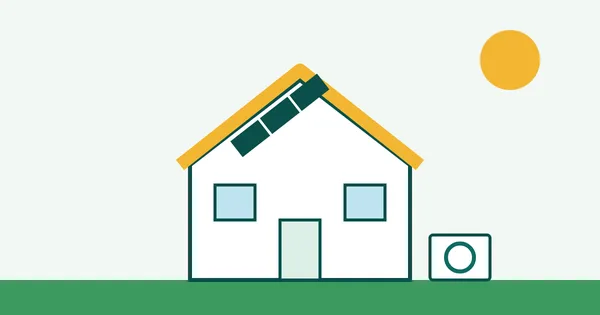
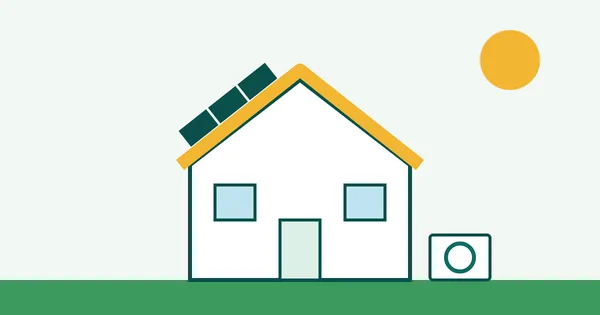
Zonnepanelen evenwijdig op dak

Changed region(s): [[0.3, 0.2, 0.57, 0.5143]]

diff --git a/scripts/images.py b/scripts/images.py
@@ -7,12 +7,12 @@ ground=f'<rect x="0" y="560" width="1200" height="70" fill="{L}"/>'
 sun=f'<circle cx="1020" cy="120" r="60" fill="{S}"/>'
 roofins=f'<path d="M360 330 600 140l240 190" fill="none" stroke="{S}" stroke-width="26" stroke-linejoin="round"/>'
 art={
-'home':sun+ground+house+roofins+f'<g transform="translate(860 470)"><rect width="120" height="90" rx="6" fill="{W}" stroke="{D}" stroke-width="6"/><circle cx="60" cy="45" r="28" fill="none" stroke="{T}" stroke-width="8"/></g><g transform="rotate(-38 600 250)"><rect x="470" y="190" width="70" height="40" fill="{D}"/><rect x="545" y="190" width="70" height="40" fill="{D}"/><rect x="620" y="190" width="70" height="40" fill="{D}"/></g>',
+'home':sun+ground+house+roofins+f'<g transform="translate(860 470)"><rect width="120" height="90" rx="6" fill="{W}" stroke="{D}" stroke-width="6"/><circle cx="60" cy="45" r="28" fill="none" stroke="{T}" stroke-width="8"/></g><g transform="translate(360 330) rotate(-38.37)"><rect x="40" y="-55" width="70" height="40" fill="{D}"/><rect x="115" y="-55" width="70" height="40" fill="{D}"/><rect x="190" y="-55" width="70" height="40" fill="{D}"/></g>',
 'spouwmuurisolatie-kosten':ground+f'<rect x="380" y="120" width="140" height="440" fill="#c86b4a"/><rect x="520" y="120" width="120" height="440" fill="{S}"/><rect x="640" y="120" width="140" height="440" fill="#d9d2c5"/>'+''.join(f'<line x1="380" y1="{y}" x2="520" y2="{y}" stroke="#fff" stroke-width="4"/>' for y in range(150,560,40))+''.join(f'<circle cx="{560+(i%3)*25}" cy="{150+i*22}" r="9" fill="#fff8e4"/>' for i in range(18))+f'<path d="M180 300h200" stroke="{T}" stroke-width="18"/><path d="M360 280l30 20-30 20z" fill="{T}"/>',
 'dakisolatie-kosten':sun+ground+house+f'<path d="M340 330 600 125l260 205" fill="none" stroke="{S}" stroke-width="44" stroke-linejoin="round"/><path d="M330 320 600 105l270 215" fill="none" stroke="#c86b4a" stroke-width="14" stroke-linejoin="round"/>',
 'vloerisolatie-kosten':f'<rect x="200" y="140" width="800" height="240" fill="{W}" stroke="{D}" stroke-width="8"/><rect x="200" y="380" width="800" height="30" fill="#8a6a4a"/><rect x="200" y="410" width="800" height="50" fill="{S}"/><rect x="200" y="460" width="800" height="120" fill="#b9a68f"/>'+''.join(f'<rect x="{x}" y="380" width="22" height="80" fill="#6f533a"/>' for x in range(240,1000,120))+f'<path d="M300 300c40-40 80 40 120 0" stroke="{T}" stroke-width="10" fill="none"/>',
 'hybride-warmtepomp-kosten':ground+house+f'<g transform="translate(850 420)"><rect width="200" height="140" rx="8" fill="{W}" stroke="{D}" stroke-width="8"/><circle cx="80" cy="70" r="46" fill="none" stroke="{T}" stroke-width="10"/><path d="M80 30v80M40 70h80" stroke="{T}" stroke-width="8"/><rect x="145" y="25" width="35" height="90" fill="{M}"/></g><path d="M640 480C700 520 780 520 850 490" stroke="{S}" stroke-width="12" fill="none" stroke-dasharray="18 12"/>',
-'zonnepanelen-na-2027':sun+ground+house+''.join(f'<g transform="rotate(-38 600 250)"><rect x="{x}" y="190" width="68" height="44" fill="{D}" stroke="#7fb8d6" stroke-width="3"/></g>' for x in (440,515,590,665))+f'<text x="120" y="250" font-family="Georgia,serif" font-size="80" font-weight="700" fill="{T}">2027</text>',
+'zonnepanelen-na-2027':sun+ground+house+'<g transform="translate(380 330) rotate(-37.69)">'+''.join(f'<rect x="{x}" y="-46" width="52" height="40" fill="{D}" stroke="#7fb8d6" stroke-width="3"/>' for x in (20,77,134,191))+'</g>'+f'<text x="120" y="250" font-family="Georgia,serif" font-size="80" font-weight="700" fill="{T}">2027</text>',
 'thuisbatterij-terugverdienen':f'<rect x="460" y="120" width="280" height="440" rx="20" fill="{W}" stroke="{D}" stroke-width="10"/><rect x="560" y="95" width="80" height="30" rx="6" fill="{D}"/><rect x="490" y="400" width="220" height="130" rx="8" fill="{L}"/><rect x="490" y="300" width="220" height="90" rx="8" fill="{M}"/><path d="M610 170l-50 90h45l-20 80 70-110h-48l25-60z" fill="{S}"/>'+ground,
 'subsidie-isde':ground+house+f'<circle cx="900" cy="230" r="110" fill="{S}"/><text x="900" y="275" text-anchor="middle" font-family="Georgia,serif" font-size="140" font-weight="700" fill="{D}">€</text><circle cx="300" cy="230" r="70" fill="{L}"/><path d="M265 232l25 25 45-50" stroke="#fff" stroke-width="14" fill="none" stroke-linecap="round"/>',
 }
